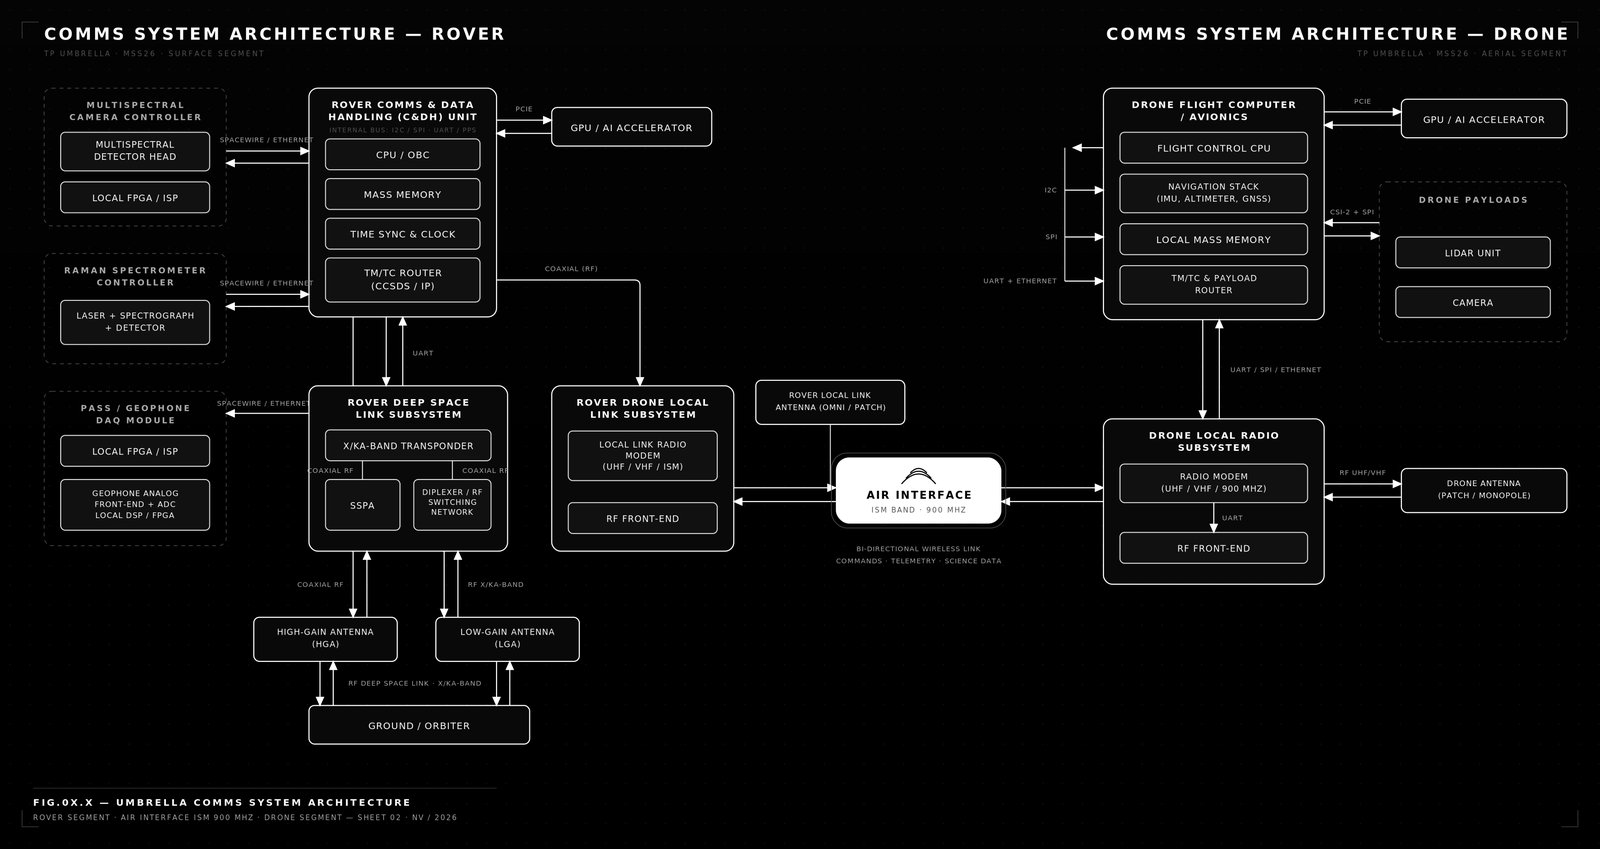
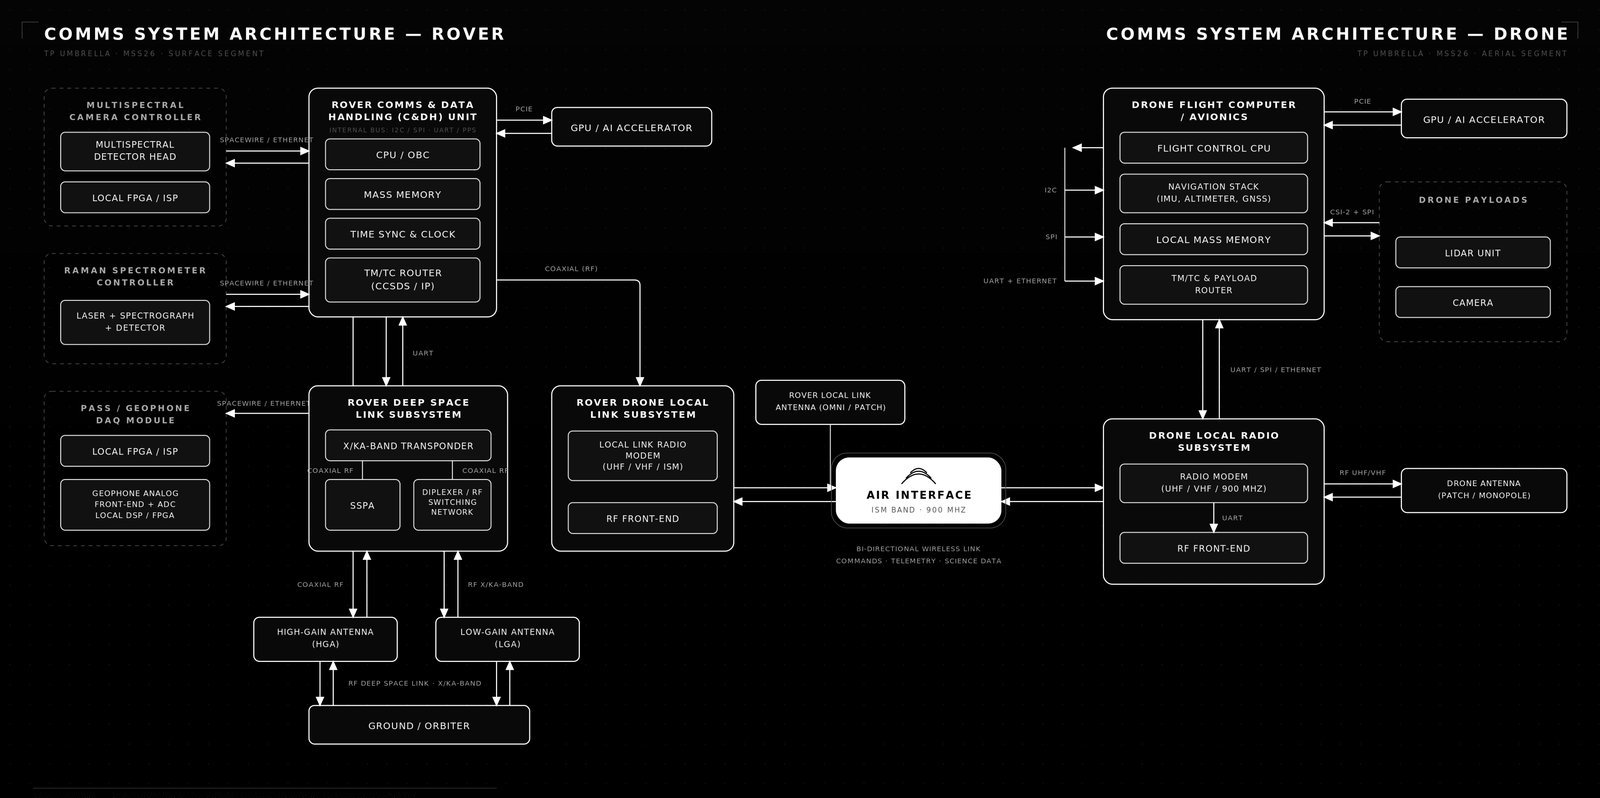
Remove frames and crop bottom FIG.0X.X labels from UMBRELLA system architecture diagrams on page 25

diff --git a/Files/portfolio-book.html b/Files/portfolio-book.html
@@ -6,6 +6,10 @@
   <meta http-equiv="Cache-Control" content="no-cache, no-store, must-revalidate">
   <meta http-equiv="Pragma" content="no-cache">
   <meta http-equiv="Expires" content="0">
+  <!-- portfolio-version: 20260707-2257 -->
+  <meta http-equiv="Cache-Control" content="no-cache, no-store, must-revalidate">
+  <meta http-equiv="Pragma" content="no-cache">
+  <meta http-equiv="Expires" content="0">
   <!-- portfolio-version: 20260707-2239 -->
   <meta http-equiv="Cache-Control" content="no-cache, no-store, must-revalidate">
   <meta http-equiv="Pragma" content="no-cache">
@@ -2136,29 +2140,17 @@ body {
       <div style="display:flex; flex-direction:column; gap:4mm; flex:1; min-height:0;">
 
         <!-- Mobility Architecture -->
-        <div style="flex:1; display:flex; flex-direction:column; min-height:0; border:0.3mm solid rgba(45,214,232,0.25); border-radius:2mm; overflow:hidden; position:relative;">
-          <div style="padding:2.5mm 4mm; background:rgba(45,214,232,0.06); border-bottom:0.3mm solid rgba(45,214,232,0.15); flex-shrink:0; display:flex; justify-content:space-between; align-items:center;">
-            <span style="font-family:var(--f-m); font-size:7pt; font-weight:700; color:#2DD6E8; letter-spacing:0.14em; text-transform:uppercase;">Mobility Subsystem Architecture</span>
-            <span style="font-family:var(--f-m); font-size:6.5pt; color:rgba(255,255,255,0.35);">FIG.06.E — Localisation · Navigation · Locomotion Control</span>
-          </div>
-          <div style="flex:1; min-height:0; overflow:hidden;">
-            <img src="UMBRELLA/portfolio_assets/mobility_architecture_black.jpg"
-                 alt="UMBRELLA Mobility Subsystem Architecture — Localisation, Navigation, Locomotion Control"
-                 style="width:100%; height:100%; object-fit:contain; object-position:center; display:block; background:#000000;">
-          </div>
+        <div style="flex:1; min-height:0; overflow:hidden; position:relative;">
+          <img src="UMBRELLA/portfolio_assets/mobility_architecture_black.jpg"
+               alt="UMBRELLA Mobility Subsystem Architecture — Localisation, Navigation, Locomotion Control"
+               style="width:100%; height:100%; object-fit:contain; object-position:center; display:block; background:#000000;">
         </div>
 
         <!-- Comms Architecture -->
-        <div style="flex:1; display:flex; flex-direction:column; min-height:0; border:0.3mm solid rgba(45,214,232,0.25); border-radius:2mm; overflow:hidden; position:relative;">
-          <div style="padding:2.5mm 4mm; background:rgba(45,214,232,0.06); border-bottom:0.3mm solid rgba(45,214,232,0.15); flex-shrink:0; display:flex; justify-content:space-between; align-items:center;">
-            <span style="font-family:var(--f-m); font-size:7pt; font-weight:700; color:#2DD6E8; letter-spacing:0.14em; text-transform:uppercase;">Communications System Architecture — Rover &amp; Drone</span>
-            <span style="font-family:var(--f-m); font-size:6.5pt; color:rgba(255,255,255,0.35);">FIG.06.F — Deep Space Link · Local Drone Link · Air Interface</span>
-          </div>
-          <div style="flex:1; min-height:0; overflow:hidden;">
-            <img src="UMBRELLA/portfolio_assets/comms_architecture_black.jpg"
-                 alt="UMBRELLA Comms System Architecture — Rover and Drone, Deep Space Link, Air Interface"
-                 style="width:100%; height:100%; object-fit:contain; object-position:center; display:block; background:#000000;">
-          </div>
+        <div style="flex:1; min-height:0; overflow:hidden; position:relative;">
+          <img src="UMBRELLA/portfolio_assets/comms_architecture_black.jpg"
+               alt="UMBRELLA Comms System Architecture — Rover and Drone, Deep Space Link, Air Interface"
+               style="width:100%; height:100%; object-fit:contain; object-position:center; display:block; background:#000000;">
         </div>
 
       </div>
